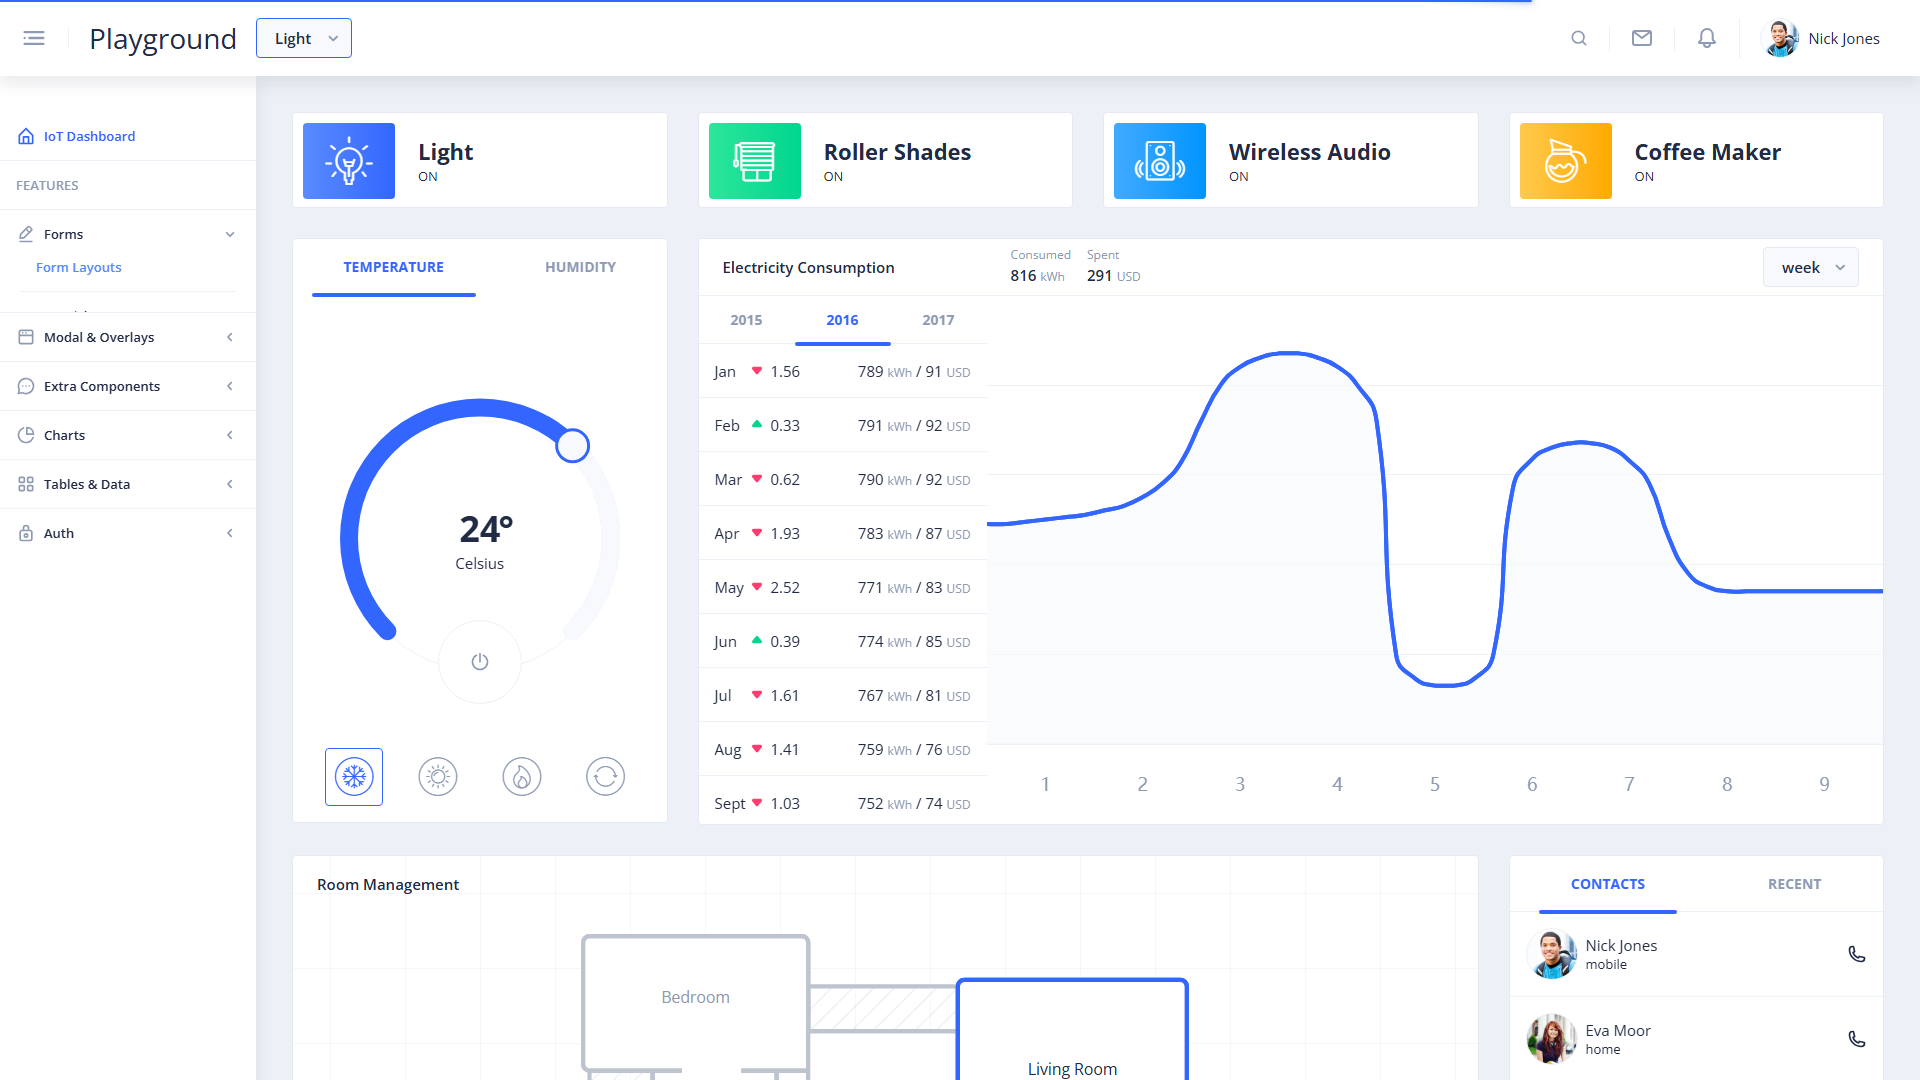
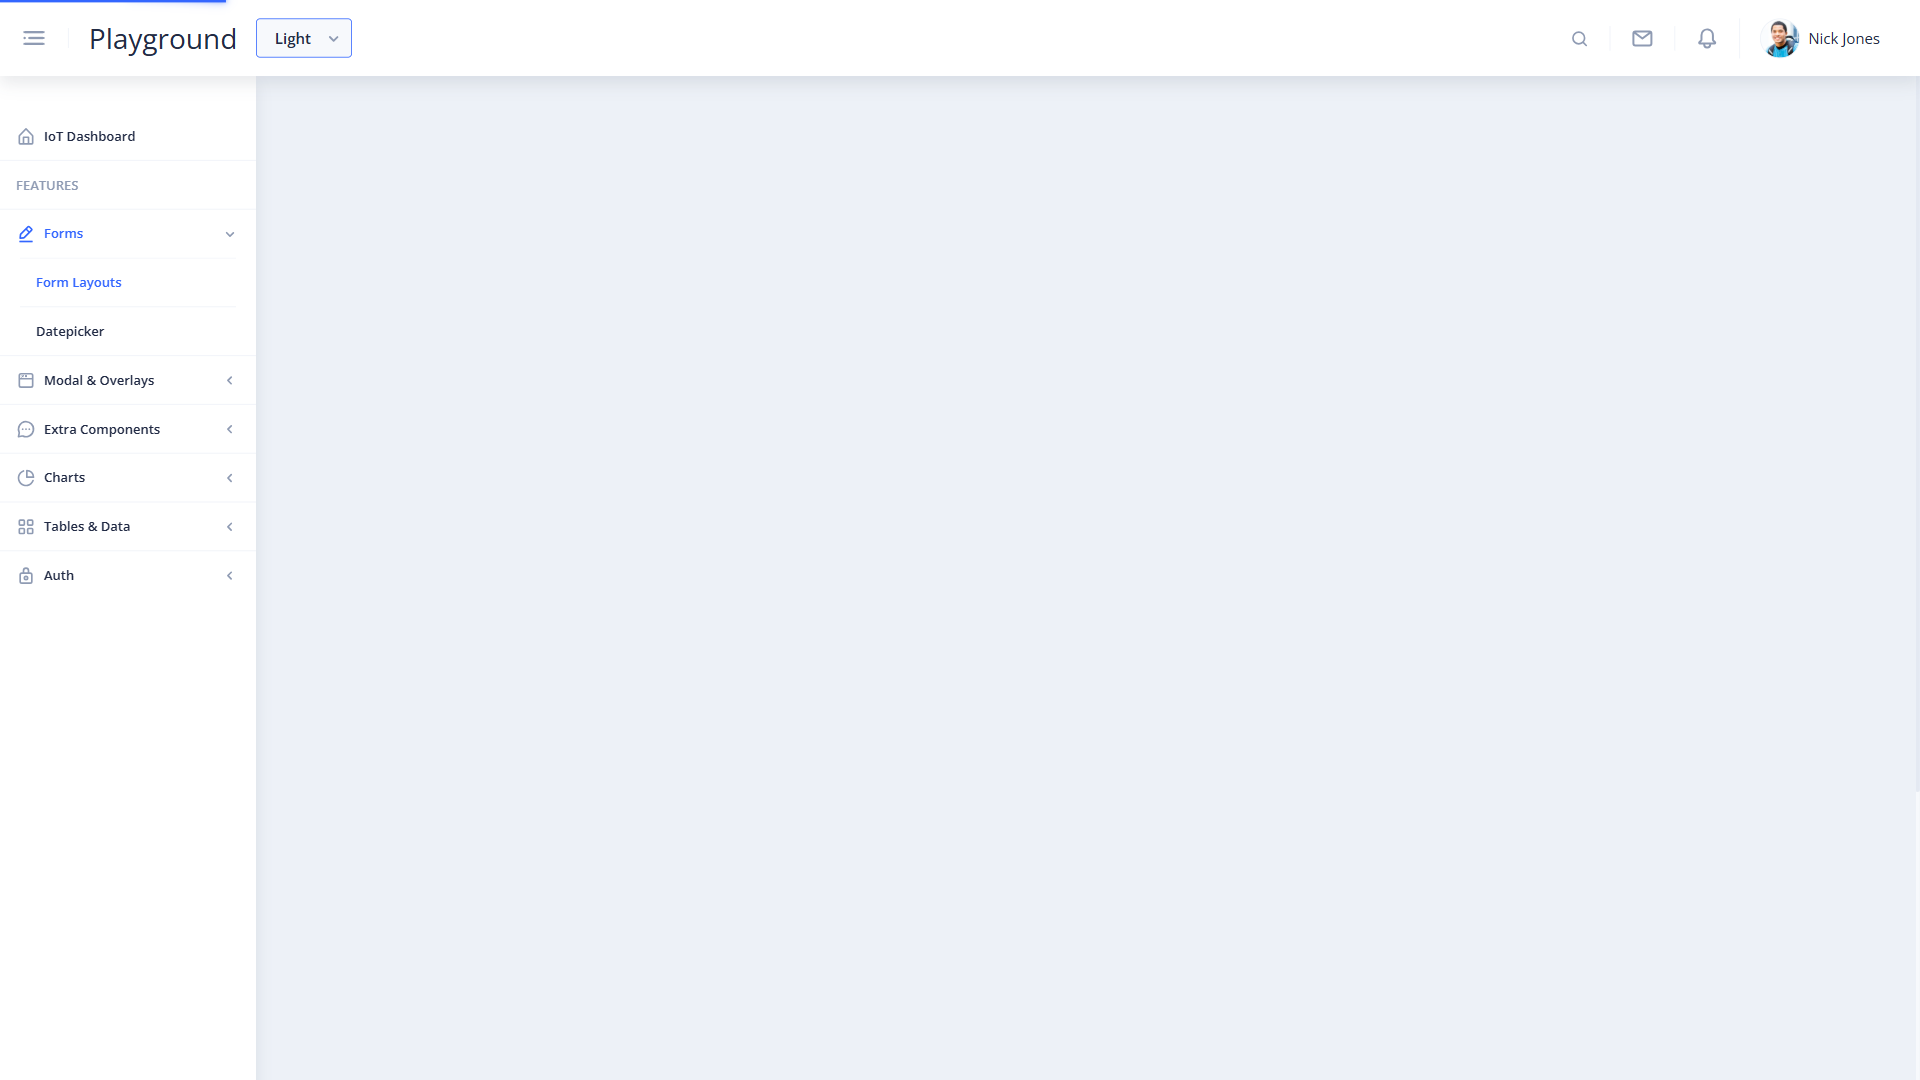
Completed the Configuration File, and Fixtures lessons

diff --git a/playwright.config.ts b/playwright.config.ts
@@ -1,47 +1,36 @@
 import { defineConfig, devices } from '@playwright/test';
-
-/**
- * Read environment variables from file.
- * https://github.com/motdotla/dotenv
- */
 import dotenv from 'dotenv';
 import path from 'path';
+
 dotenv.config({ path: path.resolve(__dirname, process.env.TEST_ENV ? `.env.${process.env.TEST_ENV}` : '.env') });
 
-/**
- * See https://playwright.dev/docs/test-configuration.
- */
 export default defineConfig({
-  // timeout: 5_000,
-  globalTimeout: 60_000,
-  expect: {
-    timeout: 10_000,
-  },
+  // timeout: 30000,
+  // globalTimeout: 60000,
+  // expect: {
+  //   timeout: 5000,
+  // },
   testDir: './tests',
-  /* Run tests in files in parallel */
   fullyParallel: true,
-  /* Fail the build on CI if you accidentally left test.only in the source code. */
-  forbidOnly: !!process.env.CI,
-  /* Retry on CI only */
-  retries: process.env.CI ? 2 : 2,
-  /* Opt out of parallel tests on CI. */
-  workers: process.env.CI ? 1 : undefined,
-  /* Reporter to use. See https://playwright.dev/docs/test-reporters */
+  retries: 1,
   reporter: 'html',
-  /* Shared settings for all the projects below. See https://playwright.dev/docs/api/class-testoptions. */
   use: {
-    actionTimeout: 10_000,
-    /* Base URL to use in actions like `await page.goto('')`. */
+    // actionTimeout: 5000,
     baseURL: process.env.URL,
-
-    /* Collect trace when retrying the failed test. See https://playwright.dev/docs/trace-viewer */
     trace: 'on-first-retry',
     video: 'on-first-retry',
     screenshot: 'only-on-failure',
   },
 
-  /* Configure projects for major browsers */
   projects: [
+    {
+      name: 'page-object-tests',
+      testMatch: '*page-objects.spec.ts',
+      use: {
+        ...devices['Desktop Chrome'],
+        viewport: { width: 1920, height: 1080 },
+      },
+    },
     {
       name: 'chromium',
       use: {
@@ -49,42 +38,5 @@ export default defineConfig({
         viewport: { width: 1920, height: 1080 },
       },
     },
-
-    // {
-    //   name: 'firefox',
-    //   use: { ...devices['Desktop Firefox'] },
-    // },
-
-    // {
-    //   name: 'webkit',
-    //   use: { ...devices['Desktop Safari'] },
-    // },
-
-    /* Test against mobile viewports. */
-    // {
-    //   name: 'Mobile Chrome',
-    //   use: { ...devices['Pixel 5'] },
-    // },
-    // {
-    //   name: 'Mobile Safari',
-    //   use: { ...devices['iPhone 12'] },
-    // },
-
-    /* Test against branded browsers. */
-    // {
-    //   name: 'Microsoft Edge',
-    //   use: { ...devices['Desktop Edge'], channel: 'msedge' },
-    // },
-    // {
-    //   name: 'Google Chrome',
-    //   use: { ...devices['Desktop Chrome'], channel: 'chrome' },
-    // },
   ],
-
-  /* Run your local dev server before starting the tests */
-  // webServer: {
-  //   command: 'npm run start',
-  //   url: 'http://localhost:3000',
-  //   reuseExistingServer: !process.env.CI,
-  // },
 });

diff --git a/tests/test-with-page-objects.spec.ts b/tests/test-with-page-objects.spec.ts
@@ -1,13 +1,7 @@
-import { test } from '@playwright/test';
-import { PageManager } from '../page-objects/page-manager';
+import { test } from '../fixtures';
 import { faker } from '@faker-js/faker';
 
-test.beforeEach(async ({ page }) => {
-  await page.goto('/');
-});
-
-test('Navigate to form layouts page', async ({ page }) => {
-  const pageManager = new PageManager(page);
+test('Navigate to form layouts page', async ({ pageManager }) => {
   await pageManager.navigateTo.FormLayoutsPage();
   await pageManager.navigateTo.DatepickerPage();
   await pageManager.navigateTo.ToastrPage();
@@ -15,13 +9,11 @@ test('Navigate to form layouts page', async ({ page }) => {
   await pageManager.navigateTo.SmartTablePage();
 });
 
-test('Parametrized page object methods', async ({ page }) => {
-  const pageManager = new PageManager(page);
+test('Parametrized page object methods', async ({ pageManager }) => {
   const fakeFullName = faker.person.fullName();
   const fakeEmail = faker.internet.email({ provider: 'test.com' });
   // const fakePassword = faker.internet.password();
   await pageManager.navigateTo.FormLayoutsPage();
-  await page.screenshot({ path: 'screenshots/form-layouts-page.png' });
   await pageManager.formLayoutsPage.submitUsingTheGridForm(process.env.TEST_USER_EMAIL!, process.env.TEST_USER_PASSWORD!, 'Option 1');
   await pageManager.formLayoutsPage.submitInlineForm(fakeFullName, fakeEmail, true);
   await pageManager.navigateTo.DatepickerPage();

diff --git a/tests/ui-components.spec.ts b/tests/ui-components.spec.ts
@@ -43,7 +43,7 @@ test.describe('Forms section', () => {
     const usingTheGridEmailInput = page.locator('nb-card', { hasText: 'Using the Grid' }).getByRole('textbox', { name: 'Email' });
     await usingTheGridEmailInput.fill('test@example.com'); // fill does not require click or clear, it replaces the existing value automatically
     await usingTheGridEmailInput.clear();
-    await usingTheGridEmailInput.pressSequentially('test@example.com', { delay: 5_00 }); // simulate typing with a delay between each keypress
+    await usingTheGridEmailInput.pressSequentially('test@example.com', { delay: 50 }); // simulate typing with a delay between each keypress
     const inputValue = await usingTheGridEmailInput.inputValue(); // use this method to extract the value
     await expect(usingTheGridEmailInput).toHaveValue('test@example.com');
     await expect(usingTheGridEmailInput).toHaveValue(/example.com/); // use regex for partial match

diff --git a/fixtures.ts b/fixtures.ts
@@ -1,0 +1,13 @@
+import { test as base } from '@playwright/test';
+import { PageManager } from './page-objects/page-manager';
+
+type FixtureTypes = {
+  pageManager: PageManager;
+};
+
+export const test = base.extend<FixtureTypes>({
+  pageManager: async ({ page }, use) => {
+    await page.goto('/');
+    await use(new PageManager(page));
+  }
+});
